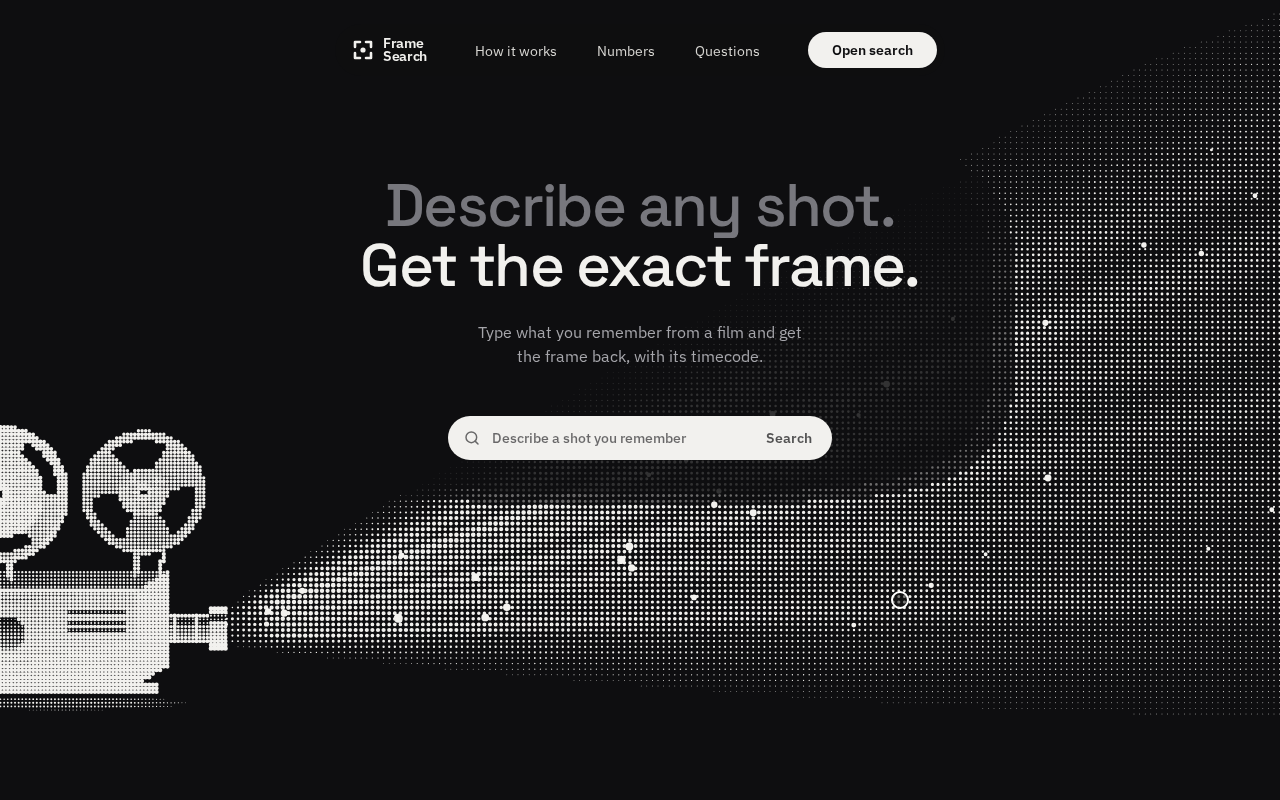
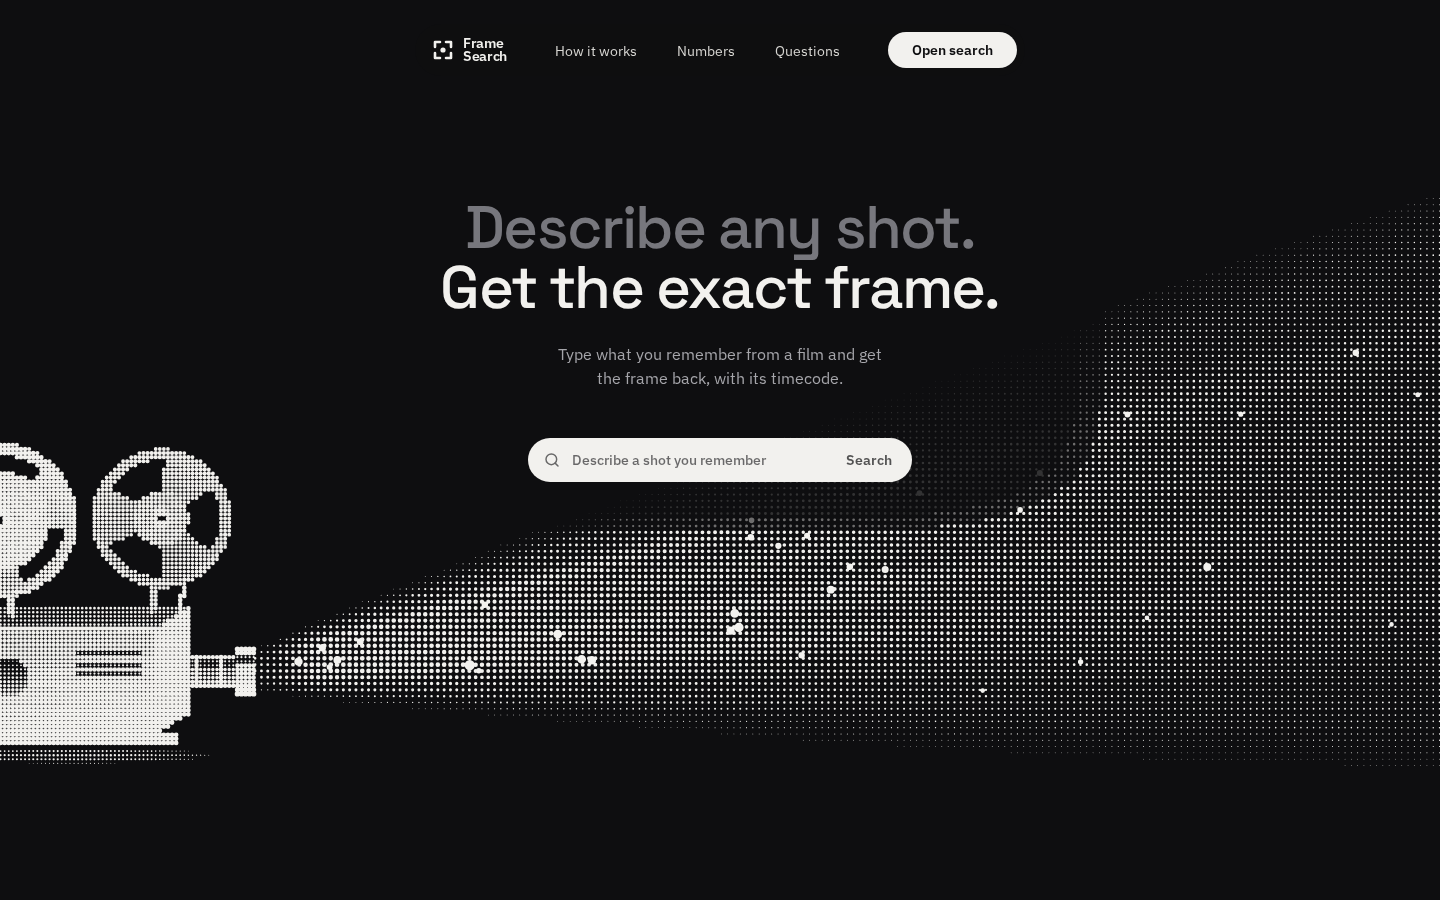
docs: record the README demos from the current site (#27)
The demo still showed the compare slider and scrubber, and the hero
predated the lowered projector beam. Both are re-recorded from production,
the demo with a query that only finds the public-domain film. The intro no
longer names that film, which is coming off the site.

Claude-Session: https://claude.ai/code/session_01DXGNf2TYdnWdFforW9tgmh

diff --git a/README.md b/README.md
@@ -4,11 +4,11 @@ Find the shot you remember by describing it.
 Type "a man boarding up a window" and get back the frames that match, each with its film and timecode.
 
 <p align="center">
-  <img src="docs/media/demo.webp" alt="Typing a description on the search page, the matching shots arriving, opening one, dragging the compare slider against its closest match and opening a similar shot" width="960">
+  <img src="docs/media/demo.webp" alt="Typing a description on the search page, the matching shots arriving, opening one and then one of the shots that look like it" width="960">
 </p>
 
 Try it at [framesearch.carlos-garavito.workers.dev](https://framesearch.carlos-garavito.workers.dev).
-The public site holds a few films, Night of the Living Dead among them, and anyone can search them read-only.
+The public site holds a handful of films, and anyone can search them read-only.
 
 ## What it does
 
